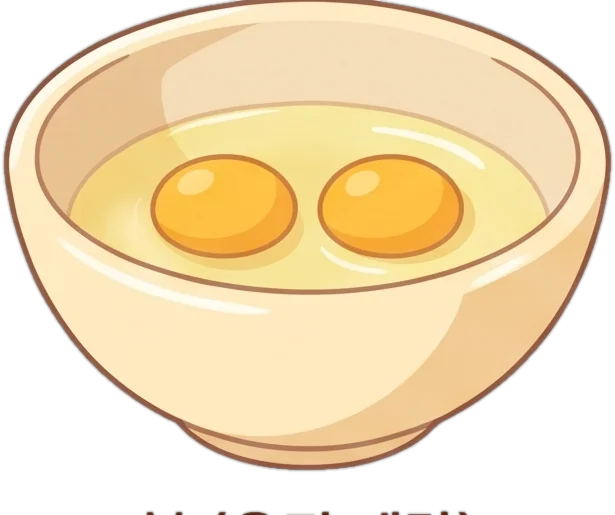
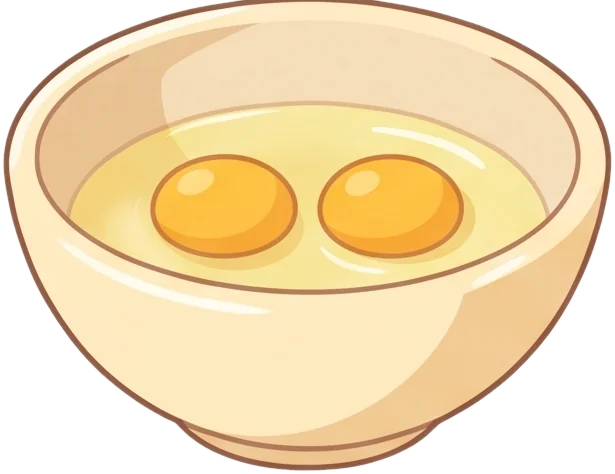
Stir: 4-stage contents progression, cleaner bowl cutout, bowl moved down
The contents now step through four stages as you stir (yolk breaking,
streaky swirl, bubbly, smooth egg wash) - stages 1-3 are the liquid
ellipses lifted from the old cel frames with the drawn whisk removed and
mirror-inpainted, clipped to the element bowl's contents shape. The bowl
cutout keeps only its largest connected component, dropping the label-text
fragments that showed under the bowl, and the whole bowl sits 4% lower.

diff --git a/cook.html b/cook.html
@@ -101,10 +101,10 @@
   .stirScene { position: absolute; inset: 0; }
   .card .img .stirScene .slay { position: absolute; inset: auto; opacity: 1; pointer-events: none; -webkit-user-drag: none; } /* 프레임 스택용 img+img 숨김 규칙 무효화 */
   .card .img .stirScene .sBg { left: 0; top: 0; width: 100%; height: 100%; object-fit: cover; }
-  .card .img .stirScene .sBowl { left: 13%; top: 32%; width: 74%; height: 62%; }
+  .card .img .stirScene .sBowl { left: 13%; top: 36%; width: 74%; height: 57%; }
   /* 계란물 '내용물'만 — 볼 테두리는 raw 한 장이 계속 담당하므로 볼이 깜빡일 일이 없다 */
-  .card .img .stirScene .sMixC { left: 20.8%; top: 43.9%; width: 58.6%; height: 23.1%; opacity: 0; transition: opacity .35s; }
-  .card .img .stirScene .sWhisk { left: 39%; top: 5%; width: 22%; height: 64.8%;
+  .card .img .stirScene .sMixC { left: 20.8%; top: 47.9%; width: 58.6%; height: 23.1%; opacity: 0; transition: opacity .35s; }
+  .card .img .stirScene .sWhisk { left: 39%; top: 9%; width: 22%; height: 64.8%;
                                   transform-origin: 50% 75%; will-change: transform; }
   #scrStir .card { aspect-ratio: 1/1; }
 
@@ -250,7 +250,7 @@
     </div>
     <div class="mid">
       <div class="card" id="stirCard">
-        <div class="img" id="stirWrap"><div class="stirScene"><img class="slay sBg" data-src="assets/stir-bg.webp" alt=""><img class="slay sBowl" id="stirBowlRaw" data-src="assets/stir-bowl-raw.webp" alt=""><img class="slay sMixC" id="stirMix" data-src="assets/stir-mix-contents.webp" alt=""><img class="slay sWhisk" id="stirWhisk" data-src="assets/stir-whisk.webp" alt=""></div></div>
+        <div class="img" id="stirWrap"><div class="stirScene"><img class="slay sBg" data-src="assets/stir-bg.webp" alt=""><img class="slay sBowl" id="stirBowlRaw" data-src="assets/stir-bowl-raw.webp" alt=""><img class="slay sMixC" id="stirMix1" data-src="assets/stir-mix-1.webp" alt=""><img class="slay sMixC" id="stirMix2" data-src="assets/stir-mix-2.webp" alt=""><img class="slay sMixC" id="stirMix3" data-src="assets/stir-mix-3.webp" alt=""><img class="slay sMixC" id="stirMix4" data-src="assets/stir-mix-contents.webp" alt=""><img class="slay sWhisk" id="stirWhisk" data-src="assets/stir-whisk.webp" alt=""></div></div>
         <div class="tag">폰으로 원을 그려도, 손가락으로 저어도 OK</div>
       </div>
       <div class="panel">
@@ -558,25 +558,25 @@
     var TARGET = 6; // 목표 회전수
     var cum = 0, doneFlag = false, lastBubble = 0, speed = 0;
     var card = $('stirCard'), fill = $('stirFill'), val = $('stirVal'), pill = $('stirPill');
-    var mixImg = $('stirMix'), whisk = $('stirWhisk');
+    var mixes = [$('stirMix1'), $('stirMix2'), $('stirMix3'), $('stirMix4')], whisk = $('stirWhisk');
     var th = 0, touching = false;
     // 휘핑기 와이어 중심을 카드 % 좌표로 배치 (기본 위치: 50, 53.6)
     function placeWhisk(pxc, pyc) {
       var r = card.getBoundingClientRect();
-      var dx = (pxc - 50) / 100 * r.width, dy = (pyc - 53.6) / 100 * r.height;
+      var dx = (pxc - 50) / 100 * r.width, dy = (pyc - 57.6) / 100 * r.height;
       whisk.style.transform = 'translate(' + dx.toFixed(1) + 'px,' + dy.toFixed(1) + 'px) rotate(' + ((pxc - 50) * 0.5).toFixed(1) + 'deg)';
     }
     // 모션 모드(손가락 없음)일 때만 누적 각도로 공전
-    function renderWhisk() { placeWhisk(50 + 18 * Math.cos(th), 55 + 8 * Math.sin(th)); }
+    function renderWhisk() { placeWhisk(50 + 18 * Math.cos(th), 59 + 8 * Math.sin(th)); }
     // 터치 중엔 손가락 위치를 그대로 따라간다 (볼 안쪽 타원으로 제한)
     function fingerWhisk(e) {
       if (doneFlag) return;
       var r = card.getBoundingClientRect();
       var fx = (e.clientX - r.left) / r.width * 100, fy = (e.clientY - r.top) / r.height * 100;
-      var ex = (fx - 50) / 24, ey = (fy - 55) / 11;
+      var ex = (fx - 50) / 24, ey = (fy - 59) / 11;
       var m = Math.sqrt(ex * ex + ey * ey);
       if (m > 1) { ex /= m; ey /= m; }
-      placeWhisk(50 + ex * 24, 55 + ey * 11);
+      placeWhisk(50 + ex * 24, 59 + ey * 11);
     }
     function add(dRad, t) {
       if (doneFlag) return;
@@ -584,7 +584,8 @@
       var rev = Math.abs(cum) / (2 * Math.PI);
       var pct = clamp(rev / TARGET * 100, 0, 100);
       if (!touching) renderWhisk();
-      mixImg.style.opacity = (pct / 100).toFixed(3); // 저을수록 계란물로
+      // 4단계 내용물: 각 단계가 자기 구간(25%)에 걸쳐 페이드인되며 이전 단계를 덮는다
+      for (var k = 0; k < 4; k++) mixes[k].style.opacity = clamp((pct - k * 25) / 10, 0, 1).toFixed(3);
       fill.style.width = pct + '%';
       val.textContent = pct.toFixed(0) + '%';
       if (rev - lastBubble > 0.5) {
@@ -597,7 +598,7 @@
       }
       if (rev >= TARGET) {
         doneFlag = true;
-        mixImg.style.opacity = '1';
+        for (var k2 = 0; k2 < 4; k2++) mixes[k2].style.opacity = '1';
         whisk.style.transform = ''; // 휘핑기 제자리
         card.animate([
           { transform: 'scale(1)' }, { transform: 'scale(1.05)' }, { transform: 'scale(1)' }
@@ -634,7 +635,8 @@
       reset: function () {
         cum = 0; th = 0; touching = false; doneFlag = false; lastBubble = 0;
         fill.style.width = '0'; val.textContent = '0%';
-        mixImg.style.opacity = '0'; whisk.style.transform = '';
+        for (var k3 = 0; k3 < 4; k3++) mixes[k3].style.opacity = '0';
+        whisk.style.transform = '';
       }
     };
   })();
